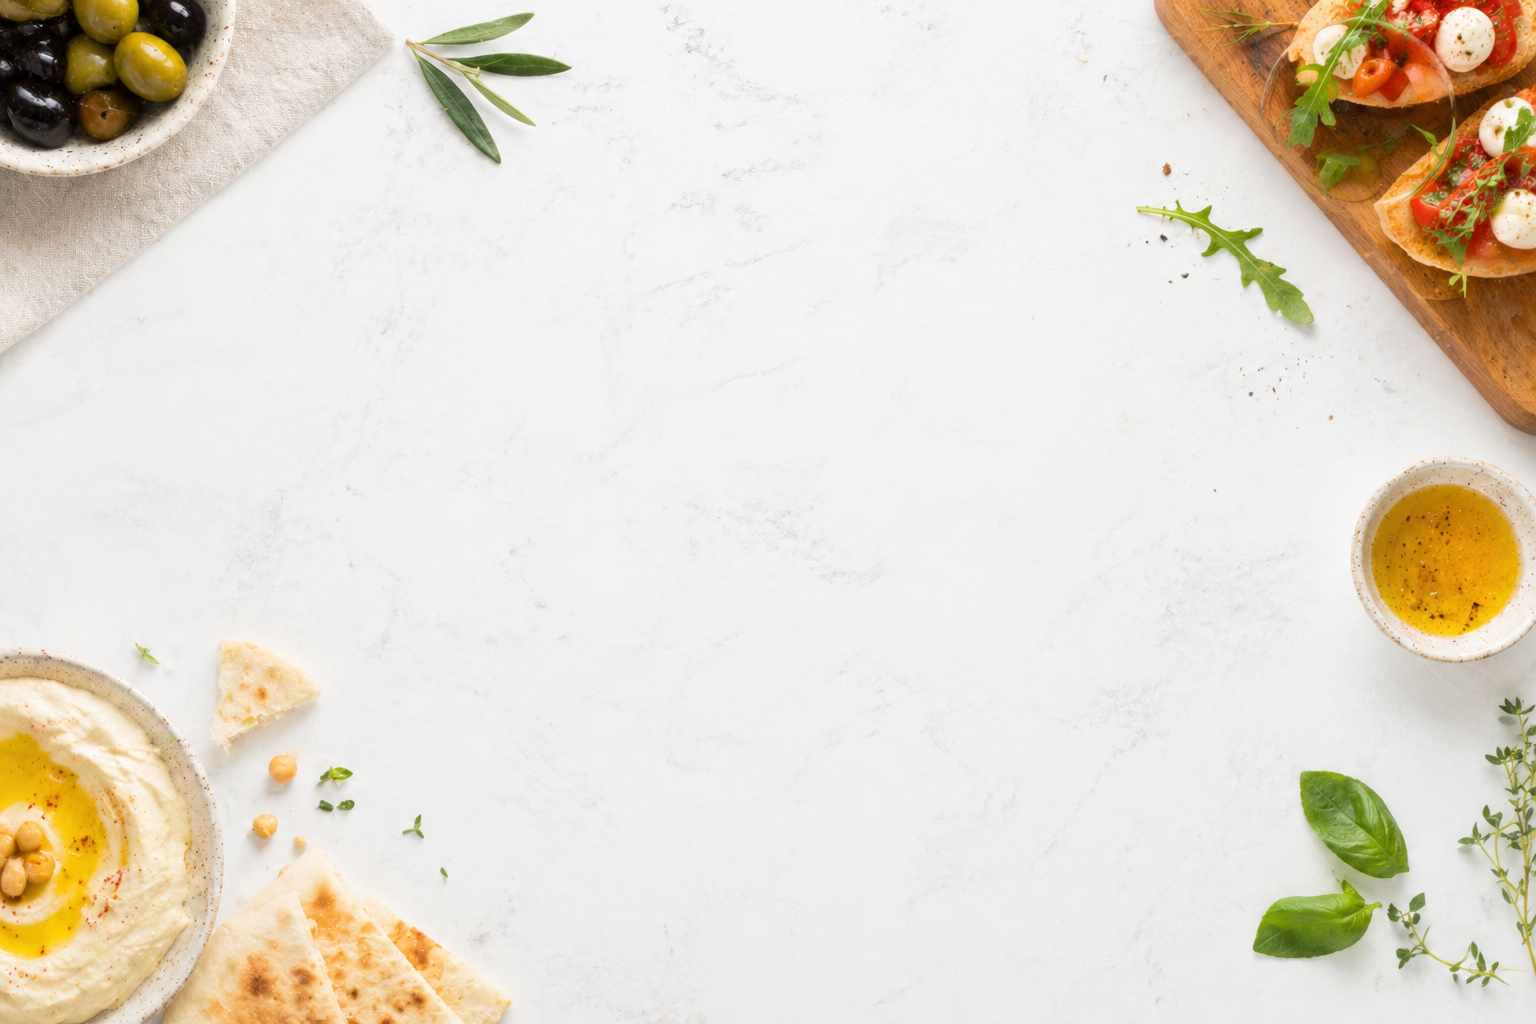
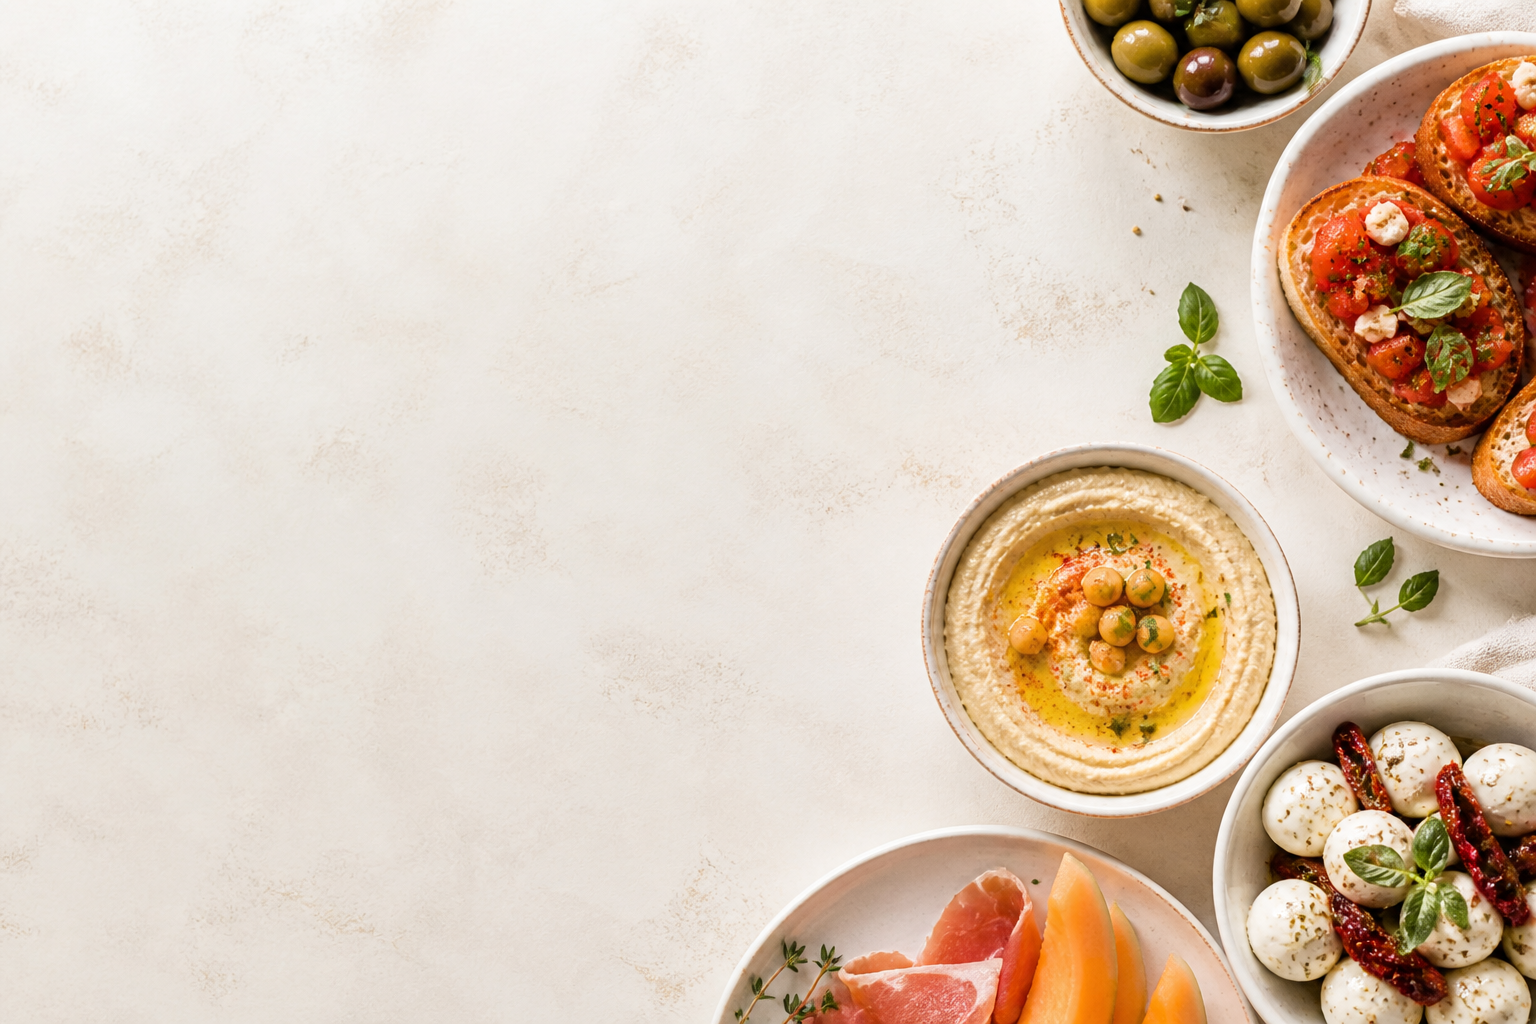
Mejora de imágenes de categorías destacadas

diff --git a/src/main/resources/templates/index.html b/src/main/resources/templates/index.html
@@ -203,8 +203,7 @@
               <img
                 th:src="@{/images/categorias/entrantes-categoria.png}"
                 alt="Entrantes"
-                class="w-100 h-100"
-                style="object-fit: cover"
+                class="categoria-img"
               />
               <div
                 class="position-absolute top-0 start-0 w-100 h-100 d-flex align-items-center justify-content-center categoria-overlay"
@@ -227,8 +226,7 @@
               <img
                 th:src="@{/images/categorias/principal-categoria.png}"
                 alt="Principales"
-                class="w-100 h-100"
-                style="object-fit: cover"
+                class="categoria-img"
               />
               <div
                 class="position-absolute top-0 start-0 w-100 h-100 d-flex align-items-center justify-content-center categoria-overlay"
@@ -251,8 +249,7 @@
               <img
                 th:src="@{/images/categorias/postres-categoria.png}"
                 alt="Postres"
-                class="w-100 h-100"
-                style="object-fit: cover"
+                class="categoria-img"
               />
               <div
                 class="position-absolute top-0 start-0 w-100 h-100 d-flex align-items-center justify-content-center categoria-overlay"

diff --git a/src/main/resources/static/css/index.css b/src/main/resources/static/css/index.css
@@ -42,6 +42,13 @@ hr{
 }
 
 /*Categorías destacadas */
+.categoria-img {
+  width: 100%;
+  height: 200px;
+  object-fit: cover;
+  object-position: right center;
+}
+
 .categoria-hover {
     transition: transform 0.3s ease;
 }
